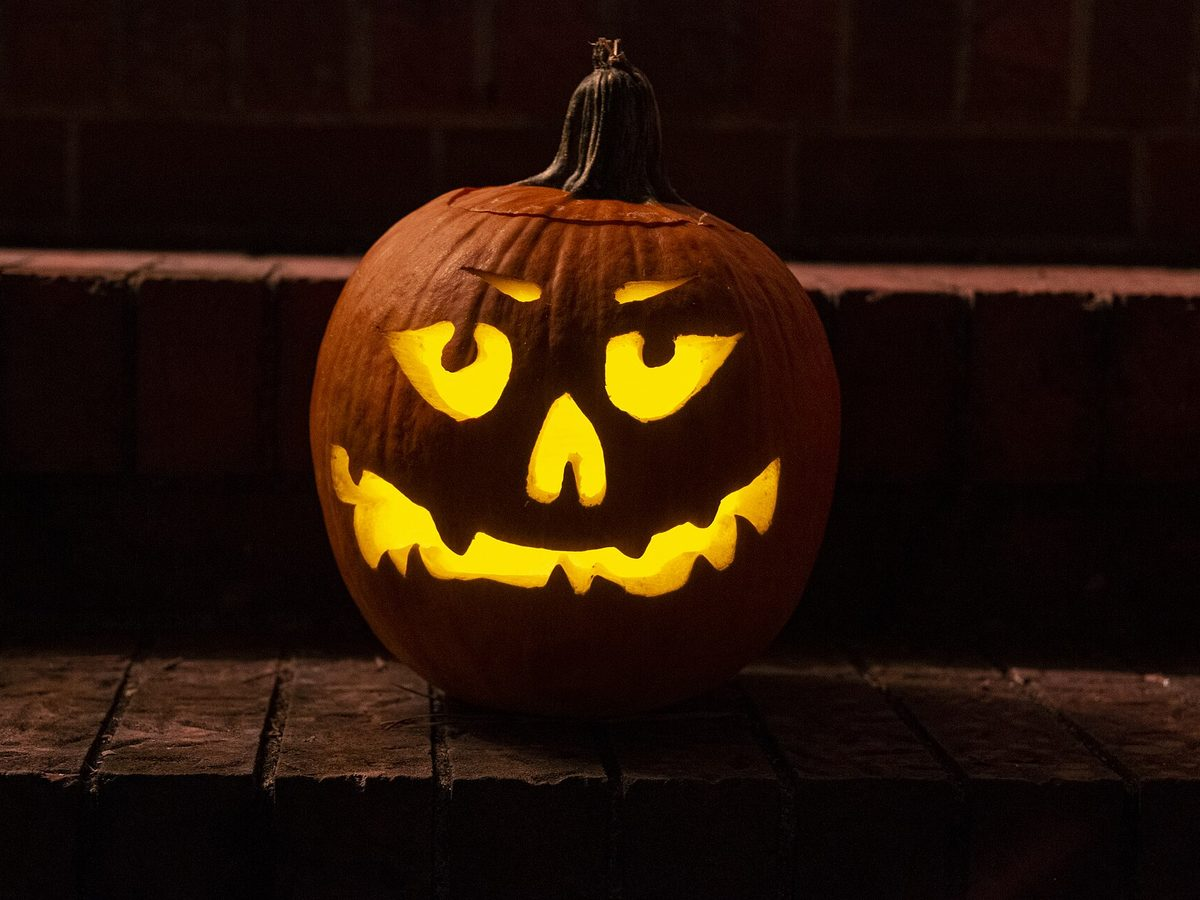
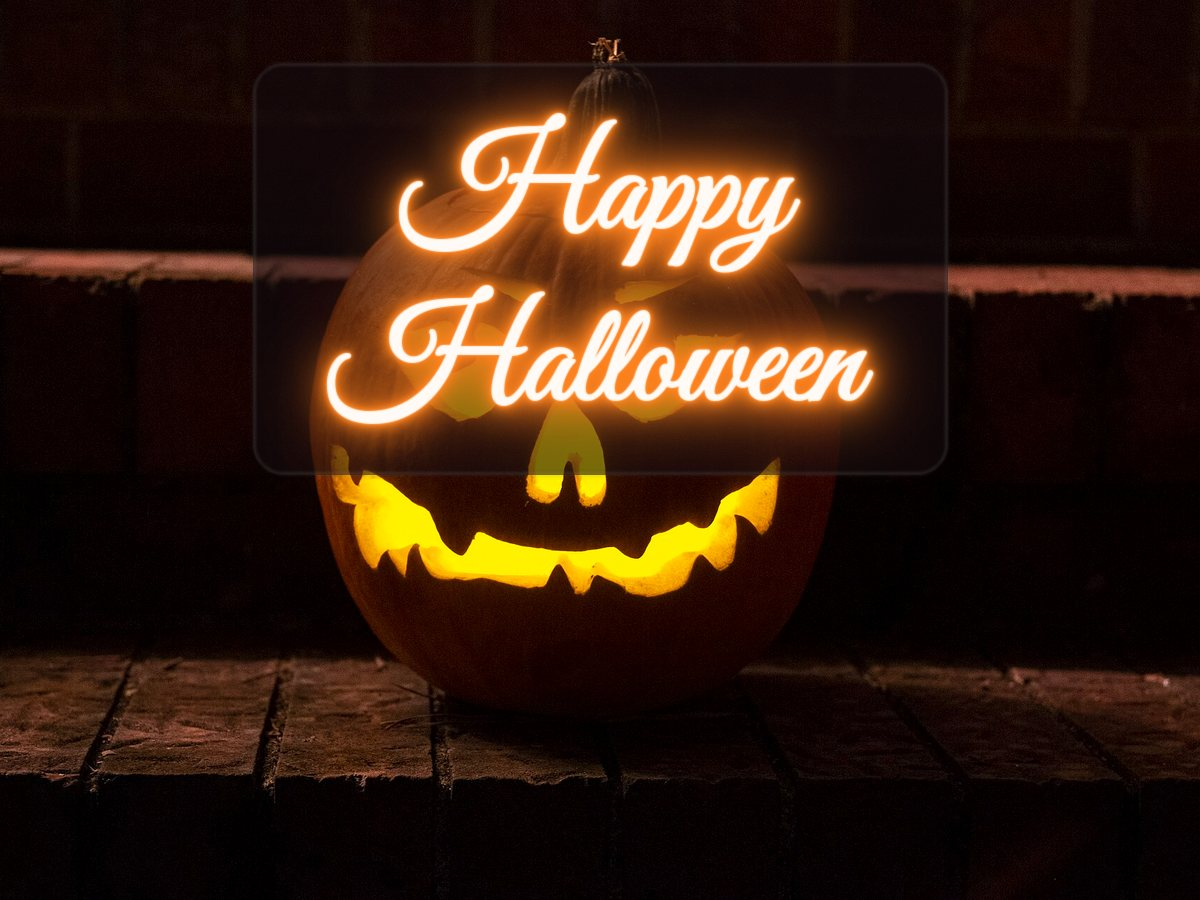
Holiday slides: glowing greeting on people-free photos, owner's Christmas image, drop New Year's Eve

Changed region(s): [[0.185, 0.0622, 0.8017, 0.5289]]

diff --git a/templates/community/home.html b/templates/community/home.html
@@ -1,5 +1,5 @@
 {% extends 'base.html' %}{% load static %}{% block content %}
-<section class="hero"><div class="container hero-inner"><div class="hero-grid"><div class="hero-copy"><p class="eyebrow">SAN CLEMENTE ISLAND COMMUNITY</p><h1>Buy, sell, trade, get free stuff.<br><span>Right here on the island.</span></h1><p class="lead">The trusted community marketplace and information hub for everyone living and working on the island.</p></div><div class="hero-slideshow" data-hero-slideshow aria-label="San Clemente Island photo slideshow">{% for holiday in month_holidays %}<figure class="hero-slide holiday-slide{% if forloop.first %} active{% endif %}"><img src="{% static 'images/holidays/' %}{{ holiday.slug }}.jpg" alt="{{ holiday.name }}"><figcaption>{{ holiday.name }}</figcaption></figure>{% endfor %}<img class="hero-slide{% if not month_holidays %} active{% endif %}" src="{% static 'images/homepage-diver.jpg' %}" alt="Scuba diver exploring the waters around San Clemente Island"><img class="hero-slide" src="{% static 'images/homepage-island.jpg' %}" alt="Aerial view of San Clemente Island"><img class="hero-slide" src="{% static 'images/homepage-island-fox.jpeg' %}" alt="San Clemente Island fox"><button class="hero-slide-arrow previous" type="button" data-slide-previous aria-label="Show previous photo"><i class="bi bi-chevron-left"></i></button><button class="hero-slide-arrow next" type="button" data-slide-next aria-label="Show next photo"><i class="bi bi-chevron-right"></i></button><div class="hero-slide-dots" aria-hidden="true">{% for holiday in month_holidays %}<span{% if forloop.first %} class="active"{% endif %}></span>{% endfor %}<span{% if not month_holidays %} class="active"{% endif %}></span><span></span><span></span></div></div></div></div><div class="hero-caption"><i class="bi bi-geo-alt-fill"></i> San Clemente Island, California</div></section>
+<section class="hero"><div class="container hero-inner"><div class="hero-grid"><div class="hero-copy"><p class="eyebrow">SAN CLEMENTE ISLAND COMMUNITY</p><h1>Buy, sell, trade, get free stuff.<br><span>Right here on the island.</span></h1><p class="lead">The trusted community marketplace and information hub for everyone living and working on the island.</p></div><div class="hero-slideshow" data-hero-slideshow aria-label="San Clemente Island photo slideshow">{% for holiday in month_holidays %}<figure class="hero-slide holiday-slide{% if forloop.first %} active{% endif %}"><img src="{% static 'images/holidays/' %}{{ holiday.slug }}.jpg?v=2" alt="{{ holiday.name }}"></figure>{% endfor %}<img class="hero-slide{% if not month_holidays %} active{% endif %}" src="{% static 'images/homepage-diver.jpg' %}" alt="Scuba diver exploring the waters around San Clemente Island"><img class="hero-slide" src="{% static 'images/homepage-island.jpg' %}" alt="Aerial view of San Clemente Island"><img class="hero-slide" src="{% static 'images/homepage-island-fox.jpeg' %}" alt="San Clemente Island fox"><button class="hero-slide-arrow previous" type="button" data-slide-previous aria-label="Show previous photo"><i class="bi bi-chevron-left"></i></button><button class="hero-slide-arrow next" type="button" data-slide-next aria-label="Show next photo"><i class="bi bi-chevron-right"></i></button><div class="hero-slide-dots" aria-hidden="true">{% for holiday in month_holidays %}<span{% if forloop.first %} class="active"{% endif %}></span>{% endfor %}<span{% if not month_holidays %} class="active"{% endif %}></span><span></span><span></span></div></div></div></div><div class="hero-caption"><i class="bi bi-geo-alt-fill"></i> San Clemente Island, California</div></section>
 <section id="community-board" class="section section-community-board"><div class="container"><div class="section-heading"><div><p class="eyebrow dark">COMMUNITY BOARD</p><h2>Leaving the island and need to sell or give away your stuff, or looking to make a community post about fishing, diving, poker games, or anything? Post it here.</h2></div></div><div class="community-board-cta-row"><a href="{% url 'marketplace' %}">View all posts <i class="bi bi-arrow-right"></i></a></div><div class="category-grid category-grid-featured">{% for value,label in categories %}<a href="{% url 'marketplace' %}?category={{ value|urlencode }}"><i class="bi {% cycle 'bi-gift' 'bi-tag' 'bi-people' 'bi-calendar-event' %}"></i><span>{{ label }}</span></a>{% endfor %}</div></div></section>
 <section class="section"><div class="container"><div class="section-heading"><div><p class="eyebrow dark">FIND YOUR WAY</p><h2>Island map</h2></div><a href="/map/">Open full map <i class="bi bi-box-arrow-up-right"></i></a></div><div class="island-map-preview"><iframe src="/map/" loading="lazy" title="San Clemente Island interactive map preview"></iframe></div></div></section>
 <section class="section bg-light-blue"><div class="container"><div class="section-heading"><div><p class="eyebrow dark">WHAT'S HAPPENING</p><h2>Upcoming events</h2></div><a href="{% url 'events' %}">Full calendar <i class="bi bi-calendar3"></i></a></div><div class="row g-3">{% for event in events %}<div class="col-md-4"><article class="event-card"><div class="event-date"><strong>{{ event.date|date:'d' }}</strong><span>{{ event.date|date:'M' }}</span></div><div><span class="tag">{{ event.category }}</span><h3>{{ event.title }}</h3><p><i class="bi bi-clock"></i> {{ event.date|date:'g:i A' }} &nbsp; <i class="bi bi-geo-alt"></i> {{ event.location }}</p></div></article></div>{% empty %}<p>Events will be posted soon.</p>{% endfor %}</div></div></section>

diff --git a/community/tests.py b/community/tests.py
@@ -943,7 +943,7 @@ class FederalHolidayTests(TestCase):
         self.assertEqual(slugs(2026, 5), ["mothers-day", "memorial-day"])
         self.assertEqual(slugs(2026, 6), ["juneteenth", "fathers-day"])
         self.assertEqual(slugs(2026, 10), ["columbus-day", "halloween"])
-        self.assertEqual(slugs(2026, 12), ["christmas-day", "new-years-eve"])
+        self.assertEqual(slugs(2026, 12), ["christmas-day"])
         self.assertEqual(slugs(2026, 8), [])
         self.assertEqual([easter_sunday(y) for y in (2024, 2025, 2026, 2027)],
                          [date(2024, 3, 31), date(2025, 4, 20), date(2026, 4, 5), date(2027, 3, 28)])
@@ -962,7 +962,7 @@ class FederalHolidayTests(TestCase):
         from unittest import mock
         with mock.patch("community.views.timezone.localdate", return_value=date(2026, 11, 7)):
             page = self.client.get(reverse("home")).content.decode()
-        self.assertIn('holiday-slide active"><img src="/static/images/holidays/veterans-day.jpg"', page)
+        self.assertIn('holiday-slide active"><img src="/static/images/holidays/veterans-day.jpg', page)
         self.assertIn("thanksgiving-day.jpg", page)
         self.assertNotIn("columbus-day.jpg", page)
         self.assertLess(page.index("thanksgiving-day.jpg"), page.index("homepage-diver.jpg"))

diff --git a/community/holidays.py b/community/holidays.py
@@ -107,7 +107,6 @@ OBSERVANCES = [
     ("mothers-day", "Mother's Day", "Second Sunday in May", lambda y: nth_weekday(y, 5, SUNDAY, 2)),
     ("fathers-day", "Father's Day", "Third Sunday in June", lambda y: nth_weekday(y, 6, SUNDAY, 3)),
     ("halloween", "Halloween", "October 31", lambda y: date(y, 10, 31)),
-    ("new-years-eve", "New Year's Eve", "December 31", lambda y: date(y, 12, 31)),
 ]
 
 

diff --git a/static/images/holidays/CREDITS.md b/static/images/holidays/CREDITS.md
@@ -1,23 +1,25 @@
-# Holiday photos
+# Holiday slides
 
-Every photo here is public domain or CC0 (free to use, no permission needed). Source pages:
+Each slide is a real photo with a glowing greeting added on top. No people appear in any slide.
 
-- **new-years-day.jpg**: Bratislava New Year Fireworks.jpg (Public domain) by Ondrejk. https://commons.wikimedia.org/wiki/File:Bratislava_New_Year_Fireworks.jpg
-- **mlk-day.jpg**: Martin Luther King Jr Memorial (e6734695-771d-4afd-86c1-9b7ac5411d37).jpg (Public domain) by Rachel Hendrix. https://commons.wikimedia.org/wiki/File:Martin_Luther_King_Jr_Memorial_(e6734695-771d-4afd-86c1-9b7ac5411d37).jpg
-- **inauguration-day.jpg**: 2009 inauguration Capitol preparations.jpg (Public domain) by DoD photo by Mass Communication Specialist 1st Class Daniel J. Calderon, U.S. Navy. https://commons.wikimedia.org/wiki/File:2009_inauguration_Capitol_preparations.jpg
-- **washingtons-birthday.jpg**: Cherry blossoms on the Washington Monument grounds (d7e15b23-ab89-464d-9d87-24526e2b4fa5).jpg (Public domain) by Victoria Stauffenberg. https://commons.wikimedia.org/wiki/File:Cherry_blossoms_on_the_Washington_Monument_grounds_(d7e15b23-ab89-464d-9d87-24526e2b4fa5).jpg
-- **memorial-day.jpg**: Flags In 2023 at Arlington National Cemetery 31.jpg (Public domain) by Arlington National Cemetery. https://commons.wikimedia.org/wiki/File:Flags_In_2023_at_Arlington_National_Cemetery_31.jpg
-- **juneteenth.jpg**: Emancipation Day celebration - 1900-06-19.jpg (Public domain) by Mrs. Charles Stephenson (Grace Murray). https://commons.wikimedia.org/wiki/File:Emancipation_Day_celebration_-_1900-06-19.jpg
-- **independence-day.jpg**: July 4th fireworks, Washington, D.C. (LOC).jpg (Public domain) by Carol M. Highsmith. https://commons.wikimedia.org/wiki/File:July_4th_fireworks,_Washington,_D.C._(LOC).jpg
-- **labor-day.jpg**: US Navy 071012-N-5914J-018 Seabees assigned to the.jpg (Public domain) by U.S. Navy photo by Seaman Kenneth Johnson. https://commons.wikimedia.org/wiki/File:US_Navy_071012-N-5914J-018_Seabees_assigned_to_the.jpg
-- **columbus-day.jpg**: 49 A wider view of the Nao Santa Maria - IMG 5785 - Nao.jpg (CC0) by Jodiepedia. https://commons.wikimedia.org/wiki/File:49_A_wider_view_of_the_Nao_Santa_Maria_-_IMG_5785_-_Nao.jpg
-- **veterans-day.jpg**: Veterans Day (4897499).jpg (Public domain) by U.S. Air Force photo by Tech. Sgt. Brian Kimball. https://commons.wikimedia.org/wiki/File:Veterans_Day_(4897499).jpg
-- **thanksgiving-day.jpg**: Thanksgiving Dinner Alc1.jpg (Public domain) by Alcinoe. https://commons.wikimedia.org/wiki/File:Thanksgiving_Dinner_Alc1.jpg
-- **christmas-day.jpg**: 2020 Capitol Christmas Tree with Lights (50673272756).jpg (Public domain) by USCapitol from Washington, D.C., United States of America. https://commons.wikimedia.org/wiki/File:2020_Capitol_Christmas_Tree_with_Lights_(50673272756).jpg
-- **valentines-day.jpg**: Heart of a rose.jpg (Public domain) by Leon Brooks. https://commons.wikimedia.org/wiki/File:Heart_of_a_rose.jpg
-- **st-patricks-day.jpg**: Trifolium subterraneum close-up.jpg (CC0) by Hallo3800. https://commons.wikimedia.org/wiki/File:Trifolium_subterraneum_close-up.jpg
+- Photos: public domain or CC0 (free to use, no permission needed). Source pages are listed below.
+- Lettering: Great Vibes font, SIL Open Font License 1.1 (free to use).
+- christmas-day.jpg: provided by the site owner.
+
+- **columbus-day.jpg**: 17 Nao Santa Maria passing Greenwich and Island Gardens - IMG 5722 - Nao.jpg (CC0) by Jodiepedia. https://commons.wikimedia.org/wiki/File:17_Nao_Santa_Maria_passing_Greenwich_and_Island_Gardens_-_IMG_5722_-_Nao.jpg
 - **easter.jpg**: Easter eggs - onion decoration.jpg (Public domain) by Jan.Kamenicek. https://commons.wikimedia.org/wiki/File:Easter_eggs_-_onion_decoration.jpg
-- **mothers-day.jpg**: Tulip-bouquet-vienna (Unsplash).jpg (CC0) by Gábor Juhász juhg. https://commons.wikimedia.org/wiki/File:Tulip-bouquet-vienna_(Unsplash).jpg
-- **fathers-day.jpg**: Defense.gov News Photo 061224-N-9909C-009.jpg (Public domain) by Cmdr. Jane Campbell, U.S. Navy. https://commons.wikimedia.org/wiki/File:Defense.gov_News_Photo_061224-N-9909C-009.jpg
+- **fathers-day.jpg**: Great Outdoors Month- National Fishing and Boating Week! (18430575240).jpg (Public domain) by Bureau  of Land Management. https://commons.wikimedia.org/wiki/File:Great_Outdoors_Month-_National_Fishing_and_Boating_Week!_(18430575240).jpg
 - **halloween.jpg**: Jack-O-Lantern at night.jpg (CC0) by Alabama Extension. https://commons.wikimedia.org/wiki/File:Jack-O-Lantern_at_night.jpg
-- **new-years-eve.jpg**: Fireworks of Korean New year's day eve.jpg (CC0) by <a href="https://pixabay.com/ko/?utm_source=link-attribution&utm_medium=referral&utm_campaign=image&utm_content=2333853". https://commons.wikimedia.org/wiki/File:Fireworks_of_Korean_New_year%27s_day_eve.jpg
+- **inauguration-day.jpg**: 2009 inauguration Capitol preparations.jpg (Public domain) by DoD photo by Mass Communication Specialist 1st Class Daniel J. Calderon, U.S. Navy. https://commons.wikimedia.org/wiki/File:2009_inauguration_Capitol_preparations.jpg
+- **independence-day.jpg**: July 4th fireworks, Washington, D.C. (LOC).jpg (Public domain) by Carol M. Highsmith. https://commons.wikimedia.org/wiki/File:July_4th_fireworks,_Washington,_D.C._(LOC).jpg
+- **juneteenth.jpg**: Gfp-texas-galveston-peaceful-ocean-at-sunset.jpg (Public Domain) by Yinan Chen. https://commons.wikimedia.org/wiki/File:Gfp-texas-galveston-peaceful-ocean-at-sunset.jpg
+- **labor-day.jpg**: Madrid - Flock of Cranes.jpg (CC0) by Whythealgarve. https://commons.wikimedia.org/wiki/File:Madrid_-_Flock_of_Cranes.jpg
+- **memorial-day.jpg**: Flags In 2023 at Arlington National Cemetery 31.jpg (Public domain) by Arlington National Cemetery. https://commons.wikimedia.org/wiki/File:Flags_In_2023_at_Arlington_National_Cemetery_31.jpg
+- **mlk-day.jpg**: Stone of Hope quote and Jefferson Memorial (3026178b-1dd8-b71c-07f3-f55ab36b3add).jpg (Public domain) by NPS. https://commons.wikimedia.org/wiki/File:Stone_of_Hope_quote_and_Jefferson_Memorial_(3026178b-1dd8-b71c-07f3-f55ab36b3add).jpg
+- **mothers-day.jpg**: Tulip-bouquet-vienna (Unsplash).jpg (CC0) by Gábor Juhász juhg. https://commons.wikimedia.org/wiki/File:Tulip-bouquet-vienna_(Unsplash).jpg
+- **new-years-day.jpg**: Bratislava New Year Fireworks.jpg (Public domain) by Ondrejk. https://commons.wikimedia.org/wiki/File:Bratislava_New_Year_Fireworks.jpg
+- **st-patricks-day.jpg**: Trifolium subterraneum close-up.jpg (CC0) by Hallo3800. https://commons.wikimedia.org/wiki/File:Trifolium_subterraneum_close-up.jpg
+- **thanksgiving-day.jpg**: Thanksgiving Dinner Alc1.jpg (Public domain) by Alcinoe. https://commons.wikimedia.org/wiki/File:Thanksgiving_Dinner_Alc1.jpg
+- **valentines-day.jpg**: Heart of a rose.jpg (Public domain) by Leon Brooks. https://commons.wikimedia.org/wiki/File:Heart_of_a_rose.jpg
+- **veterans-day.jpg**: Veterans Day (4897499).jpg (Public domain) by U.S. Air Force photo by Tech. Sgt. Brian Kimball. https://commons.wikimedia.org/wiki/File:Veterans_Day_(4897499).jpg
+- **washingtons-birthday.jpg**: Cherry blossoms on the Washington Monument grounds (d7e15b23-ab89-464d-9d87-24526e2b4fa5).jpg (Public domain) by Victoria Stauffenberg. https://commons.wikimedia.org/wiki/File:Cherry_blossoms_on_the_Washington_Monument_grounds_(d7e15b23-ab89-464d-9d87-24526e2b4fa5).jpg
